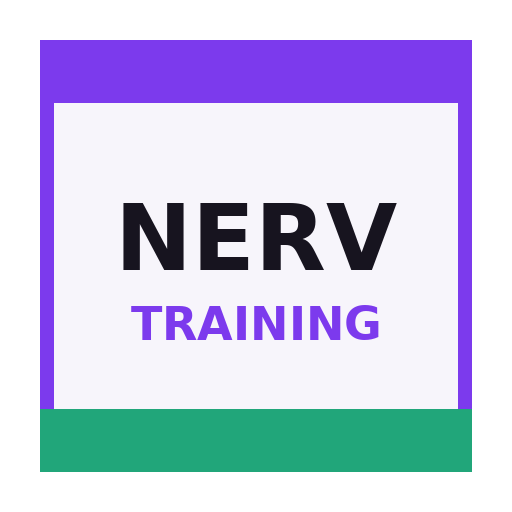
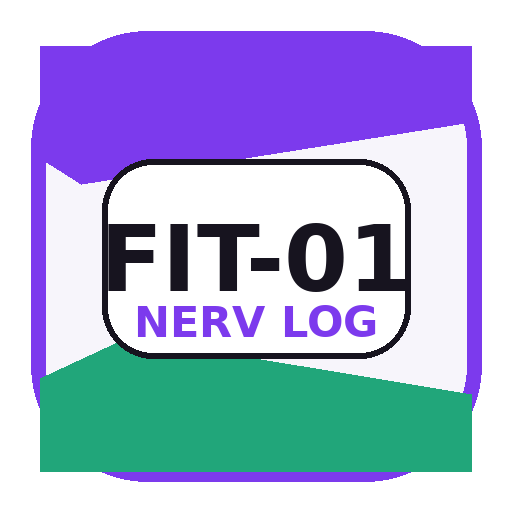
Add files via upload

Changed region(s): [[0.0625, 0.1875, 0.9688, 0.8125], [0.2188, 0.9062, 0.8125, 0.9688], [0.0625, 0.0625, 0.9375, 0.0938]]

diff --git a/sw.js b/sw.js
@@ -1,5 +1,1 @@
-const CACHE='allenamento-eva-light-v1';
-const ASSETS=['./','./index.html','./manifest.webmanifest','./icon-192.png','./icon-512.png'];
-self.addEventListener('install',e=>{self.skipWaiting();e.waitUntil(caches.open(CACHE).then(c=>c.addAll(ASSETS)))});
-self.addEventListener('activate',e=>{e.waitUntil(caches.keys().then(keys=>Promise.all(keys.filter(k=>k!==CACHE).map(k=>caches.delete(k)))));self.clients.claim()});
-self.addEventListener('fetch',e=>{e.respondWith(caches.match(e.request).then(r=>r||fetch(e.request)))});
+const CACHE='fit01-v2-new';const ASSETS=['./','./index.html','./manifest.webmanifest','./icon-192.png','./icon-512.png'];self.addEventListener('install',e=>{self.skipWaiting();e.waitUntil(caches.open(CACHE).then(c=>c.addAll(ASSETS)))});self.addEventListener('activate',e=>{e.waitUntil(caches.keys().then(keys=>Promise.all(keys.filter(k=>k!==CACHE).map(k=>caches.delete(k)))));self.clients.claim()});self.addEventListener('fetch',e=>{e.respondWith(caches.match(e.request).then(r=>r||fetch(e.request)))})